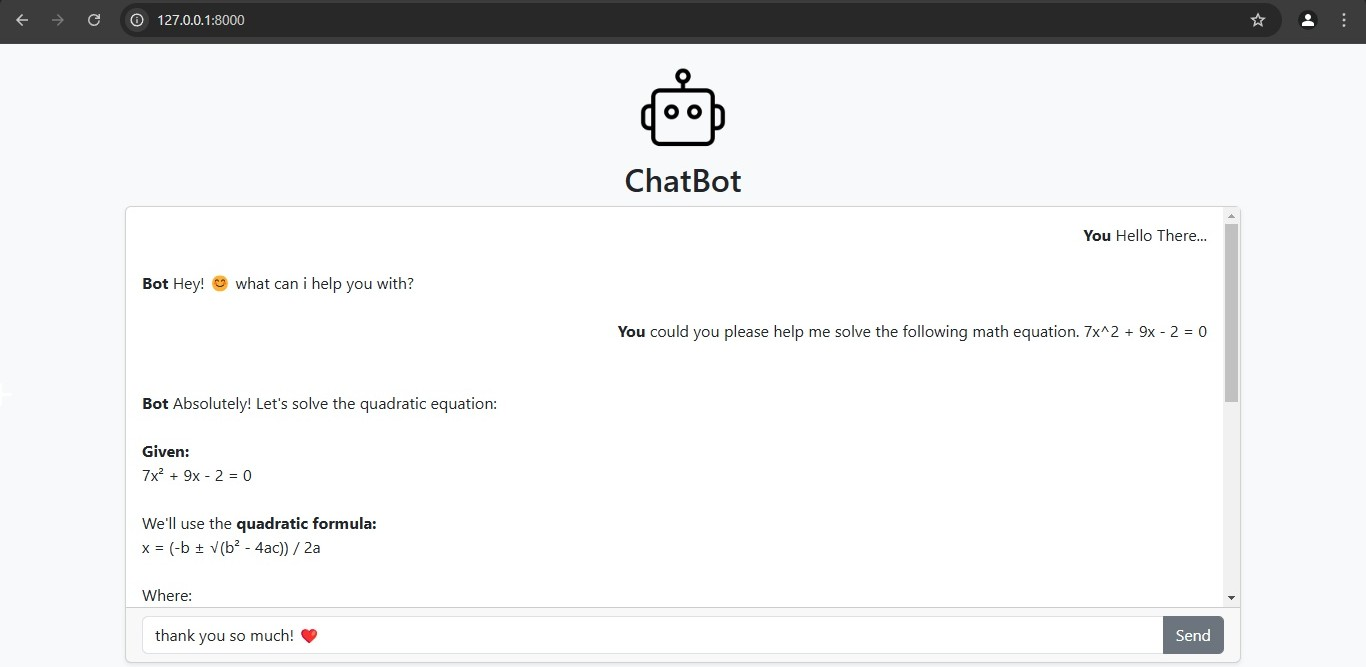
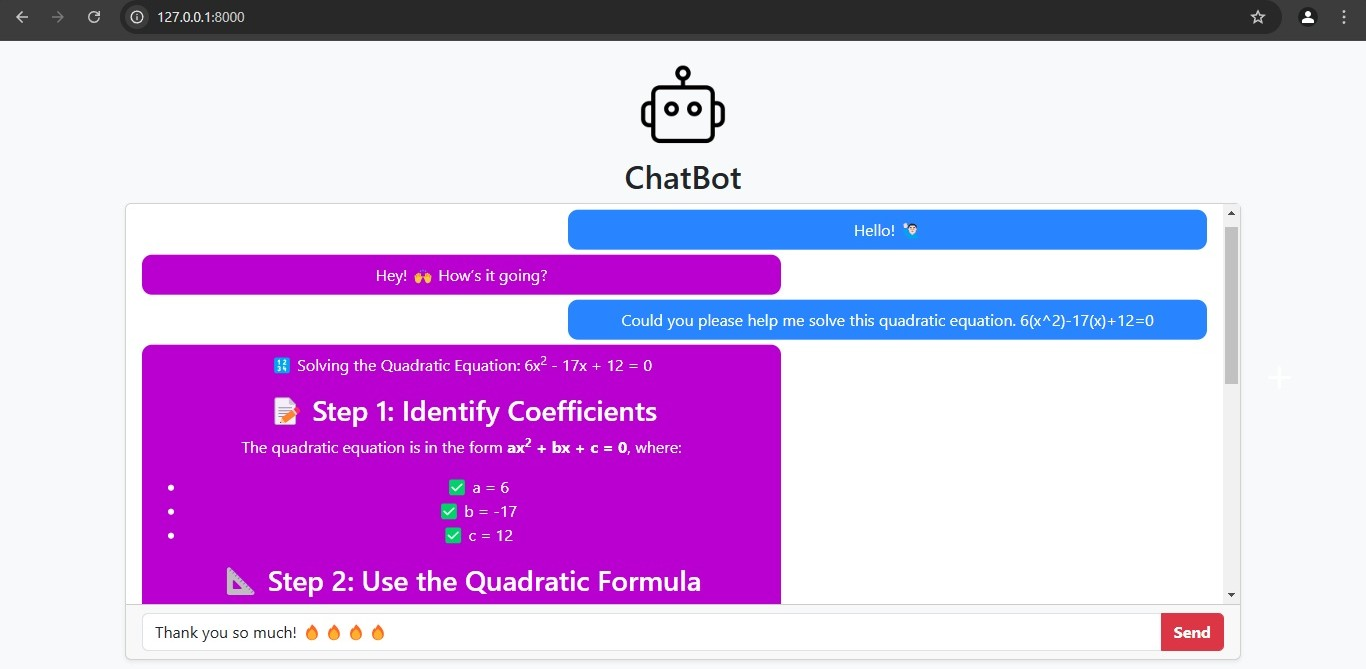
new thumbnail and script.js update

Changed region(s): [[0.0, 0.0, 1.0, 1.0], [0.8917, 0.5697, 0.9224, 0.5997]]

diff --git a/templates/index.html b/templates/index.html
@@ -5,6 +5,30 @@
     <meta name="viewport" content="width=device-width, initial-scale=1.0">
     <title>Chatbot</title>
     <link href="https://cdn.jsdelivr.net/npm/bootstrap@5.3.3/dist/css/bootstrap.min.css" rel="stylesheet">
+    <style>
+        .user-message, .bot-message {
+            max-width: 60%;
+            padding: 8px 12px;
+            border-radius: 10px;
+            margin: 5px 0;
+            display: block;
+            color: white;
+        }
+
+        .user-message {
+            background-color: #2885ff; /* Light green */
+            align-self: flex-end;
+            text-align: center;
+            margin-left: auto;
+        }
+
+        .bot-message {
+            background-color: #b900d1; /* Light red */
+            align-self: flex-start;
+            text-align: center;
+            margin-right: auto;
+        }
+    </style>
 </head>
 <body class="bg-light">
     <div class="container mt-3">
@@ -18,7 +42,7 @@
                 <form id="chat-form">
                     <div class="input-group">
                         <input type="text" id="input-field" class="form-control" placeholder="ask anything..." required>
-                        <button class="btn btn-secondary" type="submit">Send</button>
+                        <button class="btn btn-danger" type="submit"><b>Send</b></button>
                     </div>
                 </form>
             </div>

diff --git a/static/js/script.js b/static/js/script.js
@@ -46,7 +46,7 @@ chatForm.addEventListener("submit", function (event) {
                     _a.trys.push([0, 3, , 4]);
                     event.preventDefault();
                     message = inputField.value;
-                    chatBox.innerHTML += "<div class=\"text-end\"><b>You</b> ".concat(message, "</div><br>");
+                    chatBox.innerHTML += "<div class=\"user-message\">".concat(message, "</div>");
                     return [4 /*yield*/, fetch("".concat(window.location.origin, "/chat"), {
                             method: "POST",
                             headers: { "Content-Type": "application/json" },
@@ -58,7 +58,7 @@ chatForm.addEventListener("submit", function (event) {
                 case 2:
                     data = _a.sent();
                     if (response.status === 200) {
-                        chatBox.innerHTML += "<div class=\"text-start\"><b>Bot</b> ".concat(data.response, "</div><br>");
+                        chatBox.innerHTML += "<div class=\"bot-message\">".concat(data.response, "</div>");
                     }
                     else {
                         console.error(data);

diff --git a/static/ts/script.ts b/static/ts/script.ts
@@ -6,7 +6,7 @@ chatForm.addEventListener("submit", async function(event: SubmitEvent) {
     try {
         event.preventDefault();
         const message = inputField.value;
-        chatBox.innerHTML += `<div class="text-end"><b>You</b> ${message}</div><br>`;
+        chatBox.innerHTML += `<div class="user-message">${message}</div>`;
         const response = await fetch(`${window.location.origin}/chat`, {
             method: "POST",
             headers: { "Content-Type": "application/json" },
@@ -14,7 +14,7 @@ chatForm.addEventListener("submit", async function(event: SubmitEvent) {
         });
         const data = await response.json();
         if (response.status === 200) {
-            chatBox.innerHTML += `<div class="text-start"><b>Bot</b> ${data.response}</div><br>`;
+            chatBox.innerHTML += `<div class="bot-message">${data.response}</div>`;
         } else {
             console.error(data);
             alert(data["error"]["code"]);
